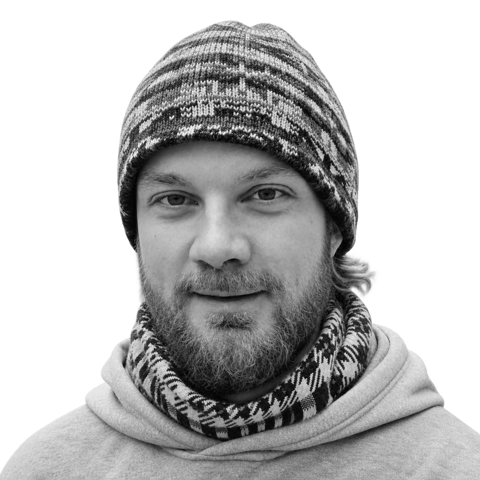
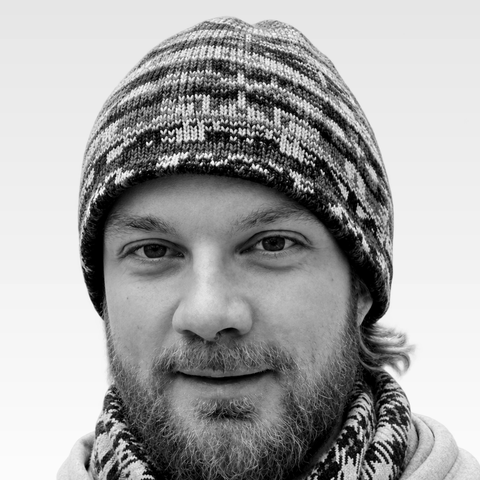
Hendrik B&W portrait on light background, all webinar pages

diff --git a/webinar/index-kaidi.html b/webinar/index-kaidi.html
@@ -102,7 +102,7 @@ body>section:nth-of-type(even){background:linear-gradient(180deg,rgba(60,30,90,0
 <div class="cd" id="cd" aria-live="off"><div><b id="cdd">0</b><span>päeva</span></div><div><b id="cdh">0</b><span>tundi</span></div><div><b id="cdm">0</b><span>minutit</span></div><div><b id="cds">0</b><span>sekundit</span></div></div>
 <a class="btn go-form" href="#card">Registreeru TASUTA kohtumisele</a></header>
 <section><div class="wrap rv"><h2>Kas see on Sinu lugu?</h2><p class="pain">Elu on saanud pidevaks pingutamiseks ja Sinu enda jaoks on aina vähem ruumi.</p><p class="q" style="margin-top:44px">„Milline elu saab avaneda, kui Sa ei pea enam kogu oma jõudu kulutama pingutamisele ja hakkamasaamisele?”</p><h2 style="margin-top:56px">Mida veebikohtumises avame</h2><ol class="steps"><li>Miks elu muutub lõputuks parandamiseks ja milline sisemine vundament mõjutab korraga raha, keha ja suhteid.</li><li>Kuidas liikuda ärevusest sügavasse turvatundesse ja saada oma jõud tagasi.</li><li>Kellena Sa elad ja mida pead endale võimalikuks?</li><li>Vabadus igapäevastes valikutes: mis annab Sulle jõudu juurde ja millest saad lahti lasta.</li></ol></div></section>
-<section><div class="wrap rv" style="padding-top:24px"><h2>Kes on eestvedajad?</h2><div class="hosts"><div class="host"><img src="kaidi-queen.jpg" alt="Kaidi"><b>Kaidi Karilaid</b><span>Floreo süda ja inimeste juht</span></div><div class="host"><img src="hendrik-captain.png" alt="Hendrik"><b>Hendrik Oviir</b><span>Floreo looja ja selgroog</span></div></div></div></section>
+<section><div class="wrap rv" style="padding-top:24px"><h2>Kes on eestvedajad?</h2><div class="hosts"><div class="host"><img src="kaidi-queen.jpg" alt="Kaidi"><b>Kaidi Karilaid</b><span>Floreo süda ja inimeste juht</span></div><div class="host"><img src="hendrik-bw.png" alt="Hendrik"><b>Hendrik Oviir</b><span>Floreo looja ja selgroog</span></div></div></div></section>
 <section><div class="wrap rv" style="padding-top:24px;padding-bottom:max(72px,env(safe-area-inset-bottom))"><div class="card" id="card"><h2>Broneeri endale koht</h2>
 <input id="n" type="text" aria-label="Nimi" placeholder="Nimi" autocomplete="name"><input id="e" type="email" aria-label="Email" placeholder="Email" autocomplete="email"><input id="t" type="tel" aria-label="Telefon" placeholder="Telefoninumber" autocomplete="tel"><input class="hp" aria-hidden="true" id="hp" tabindex="-1" autocomplete="off" name="hp_k7">
 <label class="cons"><input type="checkbox" id="ok1"><span>Jah, saada mulle kutse ja sellega seotud väärtust emailile.</span></label><p class="err" id="err"></p><button class="btn" id="go" type="button">Registreeru TASUTA kohtumisele</button><p class="fine">Saadan Sulle kutse ja meeldetuletuse.</p></div></div></section>
